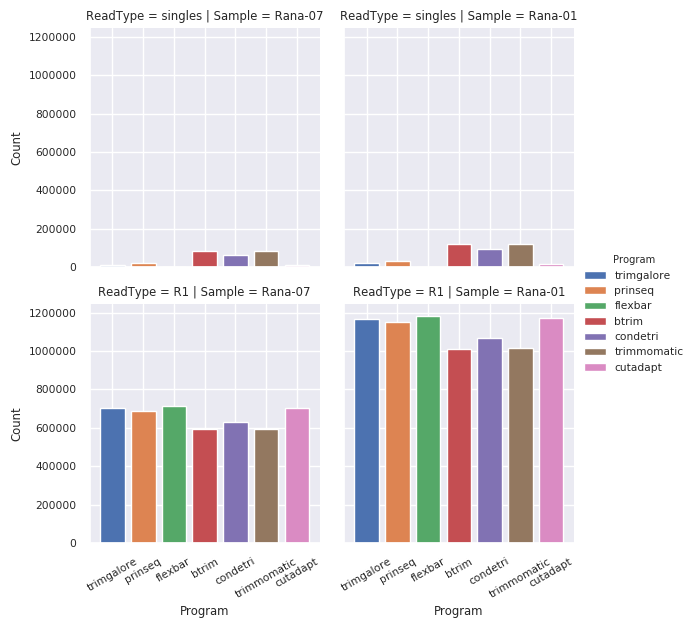
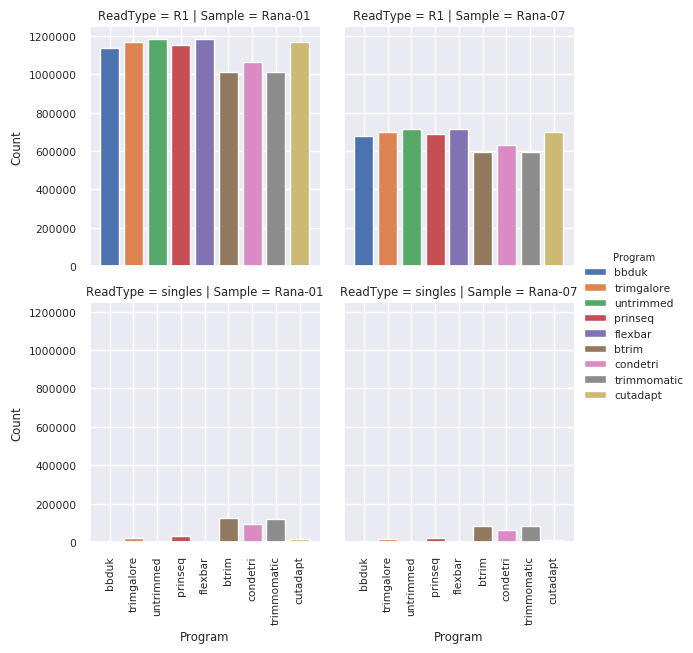
total number of bases plot

diff --git a/docs/trimming.html b/docs/trimming.html
@@ -304,16 +304,29 @@ mv input_R1_001_val_1.fq output_R1.fastq
 mv input_R2_001_val_2.fq output_R2.fastq
 </pre></div>
 </div>
+<div class="highlight-bash notranslate"><div class="highlight"><pre><span></span>gunzip -c input_R1.fastq.gz &gt; tmp_R1.fq
+gunzip -c input_R2.fastq.gz &gt; tmp_R2.fq
+bbduk.sh <span class="nv">in1</span><span class="o">=</span>tmp_R1.fq <span class="nv">in2</span><span class="o">=</span>tmp_R2.fq <span class="nv">out1</span><span class="o">=</span>output_R1.fastq <span class="nv">out2</span><span class="o">=</span>output_R2.fastq <span class="nv">qtrim</span><span class="o">=</span>lr <span class="nv">trimq</span><span class="o">=</span><span class="m">25</span> <span class="nv">minlen</span><span class="o">=</span><span class="m">50</span> <span class="nv">rieb</span><span class="o">=</span><span class="nb">false</span> <span class="nv">outm1</span><span class="o">=</span>tmp1_unpaired.fq <span class="nv">outm2</span><span class="o">=</span>tmp2_unpaired.fq <span class="nv">overwrite</span><span class="o">=</span><span class="nb">true</span>
+cat tmp1_unpaired.fq tmp2_unpaired.fq &gt; tmp_unpaired.fq
+bbduk.sh <span class="nv">in</span><span class="o">=</span>tmp_unpaired.fq <span class="nv">out</span><span class="o">=</span>output_unpaired.fastq  <span class="nv">qtrim</span><span class="o">=</span>lr <span class="nv">trimq</span><span class="o">=</span><span class="m">25</span> <span class="nv">minlen</span><span class="o">=</span><span class="m">50</span> <span class="nv">overwrite</span><span class="o">=</span><span class="nb">true</span>
+</pre></div>
+</div>
 <div class="section" id="time-comparison">
 <h3>Time comparison<a class="headerlink" href="#time-comparison" title="Permalink to this headline">¶</a></h3>
 <img alt="_images/time_plot.png" src="_images/time_plot.png" />
 <p>btrim &lt; cutadapt &lt; trimgalore &lt; trimmomatic</p>
 </div>
-<div class="section" id="number-of-reads-removed">
-<h3>Number of reads removed<a class="headerlink" href="#number-of-reads-removed" title="Permalink to this headline">¶</a></h3>
+<div class="section" id="number-of-reads-remaining">
+<h3>Number of reads remaining<a class="headerlink" href="#number-of-reads-remaining" title="Permalink to this headline">¶</a></h3>
 <img alt="_images/count_plot.png" src="_images/count_plot.png" />
 <p>More paired reads are removed for btrim, condetri and trimmomatic but a reasonable number
 are rescued as single reads.</p>
+</div>
+<div class="section" id="number-of-bases-kept">
+<h3>Number of bases kept<a class="headerlink" href="#number-of-bases-kept" title="Permalink to this headline">¶</a></h3>
+<img alt="_images/base_plot.png" src="_images/base_plot.png" />
+<p>The effect of trimming in terms of bases lost is not dramatically marked for btrim,
+condetri, trimmomatic and bbduk.</p>
 </div>
 <div class="section" id="per-read-position-quality">
 <h3>Per read position quality<a class="headerlink" href="#per-read-position-quality" title="Permalink to this headline">¶</a></h3>
